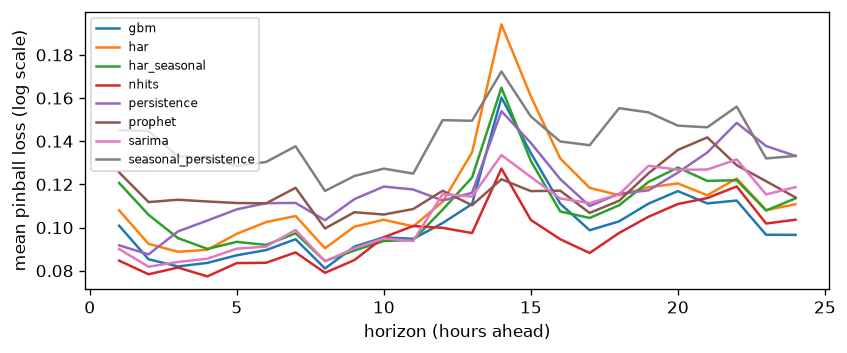
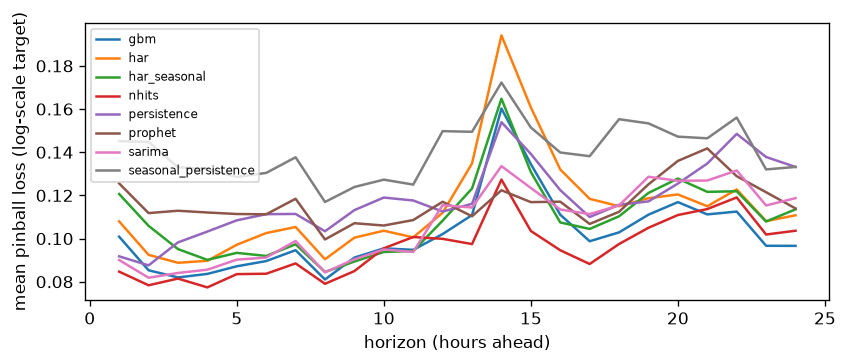
README and generator fixes: HAR expanded at first use, skill defined, the outlook claims the median-forecast average, LIVE.md gains a scored-days column, a timing audit script
The README's adapter claim is scoped to the
hourly frame the engine hardcodes, with the load demo named as the
demonstration, and the live-log day count re-dated.

HAR expanded at first use; Prophet's load
placement corrected to third from last; the report header gets its verb
and a sentence defining skill as the mean of per-horizon skill scores;
the identical persistence rows at horizon 24 footnoted as
by-construction; the figure axis label no longer reads as a log axis;
the outlook headline claims the median-forecast average rather than an
expectation, names both percentile populations, and the loudest/calmest
bullet gets its verbs.

LIVE.md gains a
per-model scored-days column with a sample-matching disclosure (nhits
has 6 scored days against 9); the outlook prints an honest no-high line
when every hour sits at the 0.02 tail clamp instead of dressing the
24 x 0.02 floor as a forecast; the nhits inclusion comment reduced to
the verifiable fact; scripts/run_verify_timing.py audits the
commit-before-outcome claim against git history (first run: all 77
origin-model groups OK, margins 22 to 53 minutes); REPORT.md discloses
NaN-forecast drops where per-model n differs; the headline-model bar
carries its stated reason; backtest sidecars snapshot dataset stats so
re-reports describe the data the run saw, with the pinned 2026-08-05
sidecar backfilled from its own committed report.

REPORT.md regenerated from the pinned parquet, tables byte-identical.
[…]

Changed region(s): [[0.0, 0.0312, 0.9823, 0.966]]

diff --git a/src/fbench/report.py b/src/fbench/report.py
@@ -23,7 +23,7 @@ def _fig_pinball(scores, fig_prefix):
         s = scores.xs(model)["pinball_mean"]
         ax.plot(s.index, s.values, label=model)
     ax.set_xlabel("horizon (hours ahead)")
-    ax.set_ylabel("mean pinball loss (log scale)")
+    ax.set_ylabel("mean pinball loss (log-scale target)")
     ax.legend(fontsize=7)
     path = RESULTS_DIR / f"{fig_prefix}_pinball_by_horizon.png"
     fig.savefig(path, dpi=120, bbox_inches="tight")
@@ -33,8 +33,18 @@ def _fig_pinball(scores, fig_prefix):
 
 def write_report(scores, hourly, results_path, out_name="REPORT.md",
                  fig_prefix="fig", title="Tournament report",
-                 value_label="median annualized RV"):
-    n_nan = int(hourly["rv"].isna().sum())
+                 value_label="median annualized RV", dataset_stats=None):
+    # dataset_stats pins the Dataset section to the data the backtest
+    # actually saw (recorded in the run's json sidecar at backtest time).
+    # Without it the section describes whatever the hourly file holds at
+    # render time, which drifts as the daily loop grows the dataset.
+    if dataset_stats is None:
+        dataset_stats = {
+            "dataset_hours": len(hourly),
+            "dataset_span_start": str(hourly.index.min()),
+            "dataset_span_end": str(hourly.index.max()),
+            "dataset_nan_hours": int(hourly["rv"].isna().sum()),
+        }
     lead = scores.groupby("model")[
         ["pinball_mean", "mae", "cov50", "cov90",
          "skill_vs_persistence"]].mean().sort_values("pinball_mean")
@@ -42,18 +52,38 @@ def write_report(scores, hourly, results_path, out_name="REPORT.md",
     h24 = scores.xs(24, level="horizon").sort_values("pinball_mean")
     lines = [
         f"# {title} (generated)", "",
-        f"Results file: {results_path.name}. All metrics on the log scale "
-        f"of the target. Coverage targets: cov50 -> 0.50, cov90 -> 0.90.",
+        f"Results file: {results_path.name}. All metrics are on the log "
+        f"scale of the target. Coverage targets: cov50 -> 0.50, "
+        f"cov90 -> 0.90. skill_vs_persistence is the mean of per-horizon "
+        f"skill scores, so a model can rank differently on skill than on "
+        f"pinball_mean; horizons where persistence does worst weigh most.",
         "",
         "## Dataset",
-        f"- hours: {len(hourly)}, span {hourly.index.min()} to "
-        f"{hourly.index.max()}",
+        f"- hours: {dataset_stats['dataset_hours']}, span "
+        f"{dataset_stats['dataset_span_start']} to "
+        f"{dataset_stats['dataset_span_end']}",
         f"- NaN target hours (data gaps, excluded from training and "
-        f"scoring): {n_nan}", "",
+        f"scoring): {dataset_stats['dataset_nan_hours']}", "",
         "## Leaderboard, mean over horizons 1-24", "",
         lead.round(4).to_markdown(), "",
         "## Horizon 1", "", h1.round(4).to_markdown(), "",
         "## Horizon 24", "", h24.round(4).to_markdown(), "",
+    ]
+    if {"persistence", "seasonal_persistence"} <= set(h24.index):
+        lines += [
+            "The identical persistence and seasonal_persistence rows at "
+            "horizon 24 are by construction: there the seasonal lag is the "
+            "same last observed hour, and both bands draw on the same "
+            "24-hour change distribution.", "",
+        ]
+    if h1["n"].nunique() > 1 or h24["n"].nunique() > 1:
+        lines += [
+            "Where a model's n falls short of the maximum, rows whose "
+            "forecast came back NaN (a degenerate fit) were dropped "
+            "before scoring, so per-model samples differ slightly there.",
+            "",
+        ]
+    lines += [
         f"![hourly profile]({fig_prefix}_hourly_profile.png)", "",
         f"![pinball by horizon]({fig_prefix}_pinball_by_horizon.png)", "",
     ]

diff --git a/src/fbench/outlook.py b/src/fbench/outlook.py
@@ -19,6 +19,10 @@ def prob_above(vol_quantiles, threshold):
 
 
 def _headline_model():
+    # Three origins is a deliberately lower bar than the 10-day
+    # calibration gate: picking which model narrates the outlook only
+    # needs a best guess, while the calibration line is a published
+    # verdict, so that one waits for the larger sample.
     ev = _load(EVAL_LOG, ["origin", "target_time", "horizon", "model",
                           *QCOLS, "y_true"])
     if ev["origin"].nunique() >= 3:
@@ -62,6 +66,23 @@ def build_outlook(hourly):
     p_high = [prob_above(vol[i], hi_thresh) for i in range(len(vol))]
     exp_high_hours = float(np.sum(p_high))
     likely_high = int(np.sum(np.array(p_high) > 0.5))
+    # prob_above clamps at 0.02 beyond the fitted quantiles, so when every
+    # hour sits at the clamp the sum is a floor (24 x 0.02), not a
+    # forecast, and printing it as one would dress a constant as
+    # information.
+    all_at_floor = all(p <= 0.02 + 1e-9 for p in p_high)
+    if all_at_floor:
+        high_line = (f"- No hour shows a meaningful chance of running "
+                     f"high, above {hi_thresh:.0%}, higher than 90% of "
+                     f"individual hours in the past year; every forecast "
+                     f"band sits well below that line.")
+    else:
+        high_line = (f"- The next 24 hours are expected to include about "
+                     f"{exp_high_hours:.1f} hours running high, above "
+                     f"{hi_thresh:.0%}, higher than 90% of individual "
+                     f"hours in the past year"
+                     + (f"; {likely_high} hours are more likely than not "
+                        f"to qualify." if likely_high else "."))
 
     local = today["target_time"].dt.tz_convert(LOCAL_TZ)
     order = np.argsort(med_path)
@@ -72,19 +93,16 @@ def build_outlook(hourly):
     lines = [
         f"# Volatility outlook - {day} (generated)",
         "",
-        f"**The next 24 hours look {regime} and {trend}.** Expected "
-        f"average volatility is about {fc_avg:.0%} annualized, which is "
-        f"the {pct:.0f}th percentile of the past year.",
+        f"**The next 24 hours look {regime} and {trend}.** The median "
+        f"forecast averages about {fc_avg:.0%} annualized volatility, "
+        f"which is the {pct:.0f}th percentile of the past year's rolling "
+        f"24-hour averages.",
         "",
         f"- Hourly median forecast ranges {med_path.min():.0%} to "
         f"{med_path.max():.0%}.",
-        f"- The next 24 hours are expected to include about "
-        f"{exp_high_hours:.1f} hours running high, above {hi_thresh:.0%}, "
-        f"the year's 90th percentile"
-        + (f"; {likely_high} hours are more likely than not to qualify."
-           if likely_high else "."),
-        f"- Loudest hours expected around {', '.join(loud)} local "
-        f"({LOCAL_TZ}); calmest around {', '.join(calm)}.",
+        high_line,
+        f"- The loudest hours are expected around {', '.join(loud)} local "
+        f"({LOCAL_TZ}); the calmest around {', '.join(calm)}.",
         f"- Yesterday's realized average was {last24:.0%}; the quiet "
         f"threshold is {q_thresh:.0%}.",
         "",

diff --git a/scripts/run_verify_timing.py b/scripts/run_verify_timing.py
@@ -1,0 +1,67 @@
+import sys
+from pathlib import Path
+
+sys.path.insert(0, str(Path(__file__).resolve().parents[1] / "src"))
+
+import argparse
+import io
+import subprocess
+
+import pandas as pd
+
+from fbench.config import ROOT
+
+FORECAST_LOG = "results/forecasts.csv"
+
+parser = argparse.ArgumentParser(
+    description="Audit the live log's evidence claim: every forecast row "
+                "was committed to git before its target hour completed. "
+                "Walks the commit history of the forecast log, finds the "
+                "first commit containing each (origin, model) group, and "
+                "compares that commit's time against the group's earliest "
+                "target completion (origin + 2h, since the first target "
+                "hour is origin + 1h and completes an hour later).")
+parser.parse_args()
+
+log = subprocess.run(
+    ["git", "log", "--reverse", "--format=%H %cI", "--", FORECAST_LOG],
+    cwd=ROOT, capture_output=True, text=True, check=True)
+
+first = {}  # (origin, model) -> (short sha, commit time)
+for line in log.stdout.splitlines():
+    if not line.strip():
+        continue
+    sha, stamp = line.split()
+    committed = pd.Timestamp(stamp).tz_convert("UTC")
+    show = subprocess.run(["git", "show", f"{sha}:{FORECAST_LOG}"],
+                          cwd=ROOT, capture_output=True, text=True)
+    if show.returncode != 0:
+        continue  # log file absent at this commit
+    df = pd.read_csv(io.StringIO(show.stdout),
+                     usecols=["origin", "model"]).drop_duplicates()
+    for origin, model in df.itertuples(index=False):
+        first.setdefault((origin, model), (sha[:9], committed))
+
+if not first:
+    sys.exit("no committed forecast rows found")
+
+by_origin = {}
+for (origin, model), commit in first.items():
+    by_origin.setdefault(origin, {}).setdefault(commit, []).append(model)
+
+late = 0
+for origin in sorted(by_origin):
+    deadline = pd.Timestamp(origin) + pd.Timedelta(hours=2)
+    for (sha, committed), models in sorted(by_origin[origin].items(),
+                                           key=lambda kv: kv[0][1]):
+        margin = (deadline - committed).total_seconds() / 60
+        ok = committed < deadline
+        late += 0 if ok else len(models)
+        print(f"{'OK  ' if ok else 'LATE'} origin {origin}  "
+              f"committed {committed} ({sha})  margin {margin:+.0f} min  "
+              f"models: {len(models)}")
+
+n = len(first)
+print(f"\n{n} (origin, model) groups checked, {late} committed after "
+      f"their first target hour completed")
+sys.exit(1 if late else 0)

diff --git a/src/fbench/daily.py b/src/fbench/daily.py
@@ -102,6 +102,8 @@ def write_live_report():
         s = add_skill(score(ev))
         g = s.groupby("model")[["pinball_mean", "mae", "cov50", "cov90",
                                 "skill_vs_persistence"]].mean()
+        g.insert(0, "days", ev.groupby("model")["origin"]
+                 .apply(lambda o: o.dt.date.nunique()))
         days = ev["origin"].dt.date.nunique()
         lines += [
             f"Forecast days scored: {days}. Resolved rows: {len(ev)}. "
@@ -114,6 +116,11 @@ def write_live_report():
             "",
             g.round(4).sort_values("pinball_mean").to_markdown(), "",
         ]
+        if g["days"].nunique() > 1:
+            lines += ["The days column is each model's own count of scored "
+                      "days. Models that joined the loop later are averaged "
+                      "over fewer days, so the rows above are not "
+                      "sample-matched.", ""]
         lines += calibration_lines(g, days)
     path = RESULTS_DIR / "LIVE.md"
     path.write_text("\n".join(lines) + "\n")

diff --git a/scripts/run_vol_backtest.py b/scripts/run_vol_backtest.py
@@ -54,7 +54,13 @@ stamp = pd.Timestamp.now(tz="UTC").strftime("%Y%m%d")
 out = RESULTS_DIR / f"backtest_{stamp}.parquet"
 res.to_parquet(out, index=False)
 run_config = {"stride": args.stride, "test_days": args.test_days,
-              "horizon": HORIZON, "models": names, "origins": len(origins)}
+              "horizon": HORIZON, "models": names, "origins": len(origins),
+              # Dataset snapshot, so a later re-report describes the data
+              # this backtest saw rather than the grown hourly file.
+              "dataset_hours": len(hourly),
+              "dataset_span_start": str(hourly.index.min()),
+              "dataset_span_end": str(hourly.index.max()),
+              "dataset_nan_hours": int(hourly["rv"].isna().sum())}
 out.with_suffix(".json").write_text(json.dumps(run_config))
 print(f"rows={len(res)} -> {out.name}  total {time.perf_counter()-t_all:.0f}s")
 

diff --git a/scripts/run_vol_report.py b/scripts/run_vol_report.py
@@ -30,8 +30,13 @@ results = pd.read_parquet(results_path)
 hourly = pd.read_parquet(DATA_DIR / "hourly_rv.parquet")
 scores = add_skill(score(results))
 
-report_path = write_report(scores, hourly, results_path)
 run_config = json.loads(results_path.with_suffix(".json").read_text())
+stat_keys = ("dataset_hours", "dataset_span_start", "dataset_span_end",
+             "dataset_nan_hours")
+dataset_stats = ({k: run_config[k] for k in stat_keys}
+                 if all(k in run_config for k in stat_keys) else None)
+report_path = write_report(scores, hourly, results_path,
+                           dataset_stats=dataset_stats)
 run_config.pop("models", None)  # param values must be scalars
 log_tournament(scores, results_path, run_config)
 print(f"report -> {report_path}")

diff --git a/scripts/run_daily.py b/scripts/run_daily.py
@@ -10,8 +10,8 @@ import pandas as pd
 # Import all model modules so the registry is complete for the daily fits.
 import fbench.models.gbm  # noqa: F401
 import fbench.models.har  # noqa: F401
-import fbench.models.nhits  # noqa: F401  (passed the pre-registered
-#   inclusion criterion on the 2026-08-05 full tournament)
+import fbench.models.nhits  # noqa: F401  (added 2026-08-06 after it led
+#   the 2026-08-05 full tournament)
 import fbench.models.persistence  # noqa: F401
 import fbench.models.prophet_model  # noqa: F401
 import fbench.models.sarima  # noqa: F401

diff --git a/scripts/run_load_demo.py b/scripts/run_load_demo.py
@@ -55,7 +55,11 @@ res.to_parquet(out, index=False)
 out.with_suffix(".json").write_text(json.dumps(
     {"stride": args.stride, "test_days": args.test_days,
      "series": "DE_load_actual_entsoe_transparency",
-     "origins": len(origins)}))
+     "origins": len(origins),
+     "dataset_hours": len(hourly),
+     "dataset_span_start": str(hourly.index.min()),
+     "dataset_span_end": str(hourly.index.max()),
+     "dataset_nan_hours": int(hourly["rv"].isna().sum())}))
 
 scores = add_skill(score(res))
 path = write_report(

diff --git a/README.md b/README.md
@@ -8,8 +8,8 @@ Evaluation is rolling-origin temporal validation, where the forecast origin
 steps forward through time and each forecast sees only data before it, with
 quantile accuracy (pinball loss) and calibration (how often the truth lands
 inside the band) scored separately. Every model must beat two honest
-baselines, persistence and the HAR regression standard in volatility work,
-or the report says so.
+baselines, persistence and the HAR (heterogeneous autoregressive)
+regression standard in volatility work, or the report says so.
 
 In the pinned 2026-08-05 backtest, the best entrant (N-HiTS, the deep
 net) scored a mean pinball loss of 0.0959 against 0.1180 for the
@@ -23,8 +23,9 @@ hours. The current tournament results, figures, and dataset summary are in
 My private trading research system has a standing rule that no forecast
 ships until it beats a classical baseline out of sample. This repo is that
 discipline as a standalone, reusable harness on public data. The harness is
-series-agnostic. Models implement a small adapter (train window in, quantile
-forecasts out), and anything with a timestamp index plugs in.
+series-agnostic within its hourly frame. Models implement a small adapter
+(train window in, quantile forecasts out), and any hourly series with a
+timestamp index plugs in; the load demo below is the demonstration.
 
 ## Data
 
@@ -52,7 +53,7 @@ A second dataset, German hourly load (OPSD/ENTSO-E, CC-BY 4.0), runs
 through the identical engine as a generality demo:
 [results/LOAD_REPORT.md](results/LOAD_REPORT.md). The model ranking
 reorders sharply against the volatility tournament, with Prophet climbing
-from next-to-last to second, which is the point. Model family choice
+from third from last to second, which is the point. Model family choice
 depends on series structure, and the harness measures it.
 
 ## Setup and run
@@ -69,6 +70,10 @@ python scripts/run_vol_backtest.py # rolling-origin tournament; scores it,
                                    #   logs to MLflow, writes REPORT.md
 python scripts/run_vol_report.py   # re-score an existing backtest parquet
                                    #   without refitting
+python scripts/run_verify_timing.py  # audit the live log's evidence claim
+                                     #   against git history: exits 1 if any
+                                     #   forecast row was first committed
+                                     #   after its target hour completed
 ```
 
 `run_vol_backtest.py` takes `--models`, `--stride`, and `--test-days` to run
@@ -94,7 +99,7 @@ never shows a model data past its origin.
 
 ## Limitations and next steps
 
-The live log is young, four scored days as of 2026-08-07, so the LIVE.md
+The live log is young, seven scored days as of 2026-08-10, so the LIVE.md
 leaderboard will stay noisy until the sample grows, and its coverage
 columns are provisional because each day contributes about 24 dependent
 hourly rows. The load demo runs the classical models only, without N-HiTS,

diff --git a/results/LIVE.md b/results/LIVE.md
@@ -4,16 +4,18 @@ Forecast days scored: 9. Resolved rows: 1656. Pending (logged, outcome not yet o
 
 Every row here was committed to git before its target hour completed, so before its outcome was observable; the commit history is the timestamp evidence.
 
-| model                |   pinball_mean |    mae |   cov50 |   cov90 |   skill_vs_persistence |
-|:---------------------|---------------:|-------:|--------:|--------:|-----------------------:|
-| nhits                |         0.0966 | 0.2985 |  0.5556 |  0.8958 |                 0.2408 |
-| gbm                  |         0.1119 | 0.3428 |  0.3935 |  0.8056 |                 0.1015 |
-| sarima               |         0.1212 | 0.3761 |  0.537  |  0.8796 |                 0.0255 |
-| prophet              |         0.1233 | 0.3878 |  0.412  |  0.8426 |                -0.0047 |
-| har_seasonal         |         0.1286 | 0.3915 |  0.4815 |  0.8241 |                -0.019  |
-| persistence          |         0.1328 | 0.4206 |  0.5    |  0.9028 |                 0      |
-| har                  |         0.1334 | 0.4076 |  0.5046 |  0.8426 |                -0.0453 |
-| seasonal_persistence |         0.1609 | 0.4794 |  0.5046 |  0.8426 |                -0.2688 |
+| model                |   days |   pinball_mean |    mae |   cov50 |   cov90 |   skill_vs_persistence |
+|:---------------------|-------:|---------------:|-------:|--------:|--------:|-----------------------:|
+| nhits                |      6 |         0.0966 | 0.2985 |  0.5556 |  0.8958 |                 0.2408 |
+| gbm                  |      9 |         0.1119 | 0.3428 |  0.3935 |  0.8056 |                 0.1015 |
+| sarima               |      9 |         0.1212 | 0.3761 |  0.537  |  0.8796 |                 0.0255 |
+| prophet              |      9 |         0.1233 | 0.3878 |  0.412  |  0.8426 |                -0.0047 |
+| har_seasonal         |      9 |         0.1286 | 0.3915 |  0.4815 |  0.8241 |                -0.019  |
+| persistence          |      9 |         0.1328 | 0.4206 |  0.5    |  0.9028 |                 0      |
+| har                  |      9 |         0.1334 | 0.4076 |  0.5046 |  0.8426 |                -0.0453 |
+| seasonal_persistence |      9 |         0.1609 | 0.4794 |  0.5046 |  0.8426 |                -0.2688 |
+
+The days column is each model's own count of scored days. Models that joined the loop later are averaged over fewer days, so the rows above are not sample-matched.
 
 The calibration check stays inactive until 10 scored days (9 so far). Coverage columns are provisional; each day contributes ~24 dependent hourly rows, so the effective sample is the day count.
 

diff --git a/results/REPORT.md b/results/REPORT.md
@@ -1,6 +1,6 @@
 # Tournament report (generated)
 
-Results file: backtest_20260805.parquet. All metrics on the log scale of the target. Coverage targets: cov50 -> 0.50, cov90 -> 0.90.
+Results file: backtest_20260805.parquet. All metrics are on the log scale of the target. Coverage targets: cov50 -> 0.50, cov90 -> 0.90. skill_vs_persistence is the mean of per-horizon skill scores, so a model can rank differently on skill than on pinball_mean; horizons where persistence does worst weigh most.
 
 ## Dataset
 - hours: 26412, span 2023-08-01 00:00:00+00:00 to 2026-08-05 11:00:00+00:00
@@ -44,6 +44,10 @@ Results file: backtest_20260805.parquet. All metrics on the log scale of the tar
 | sarima               |         0.1187 | 0.3637 | 0.4903 |  0.5879 |  0.9011 | 182 |                 0.1085 |
 | persistence          |         0.1332 | 0.4139 | 0.5497 |  0.5246 |  0.9126 | 183 |                 0      |
 | seasonal_persistence |         0.1332 | 0.4139 | 0.5497 |  0.5246 |  0.9126 | 183 |                 0      |
+
+The identical persistence and seasonal_persistence rows at horizon 24 are by construction: there the seasonal lag is the same last observed hour, and both bands draw on the same 24-hour change distribution.
+
+Where a model's n falls short of the maximum, rows whose forecast came back NaN (a degenerate fit) were dropped before scoring, so per-model samples differ slightly there.
 
 ![hourly profile](fig_hourly_profile.png)
 

diff --git a/results/OUTLOOK.md b/results/OUTLOOK.md
@@ -3,7 +3,7 @@
 **The next 24 hours look quiet and steady.** The median forecast averages about 21% annualized volatility, which is the 11th percentile of the past year's rolling 24-hour averages.
 
 - Hourly median forecast ranges 15% to 32%.
-- The next 24 hours are expected to include about 0.5 hours running high, above 66%, higher than 90% of individual hours in the past year.
+- No hour shows a meaningful chance of running high, above 66%, higher than 90% of individual hours in the past year; every forecast band sits well below that line.
 - The loudest hours are expected around 08:00, 09:00, 10:00 local (America/Chicago); the calmest around 02:00, 03:00, 04:00.
 - Yesterday's realized average was 22%; the quiet threshold is 29%.
 
